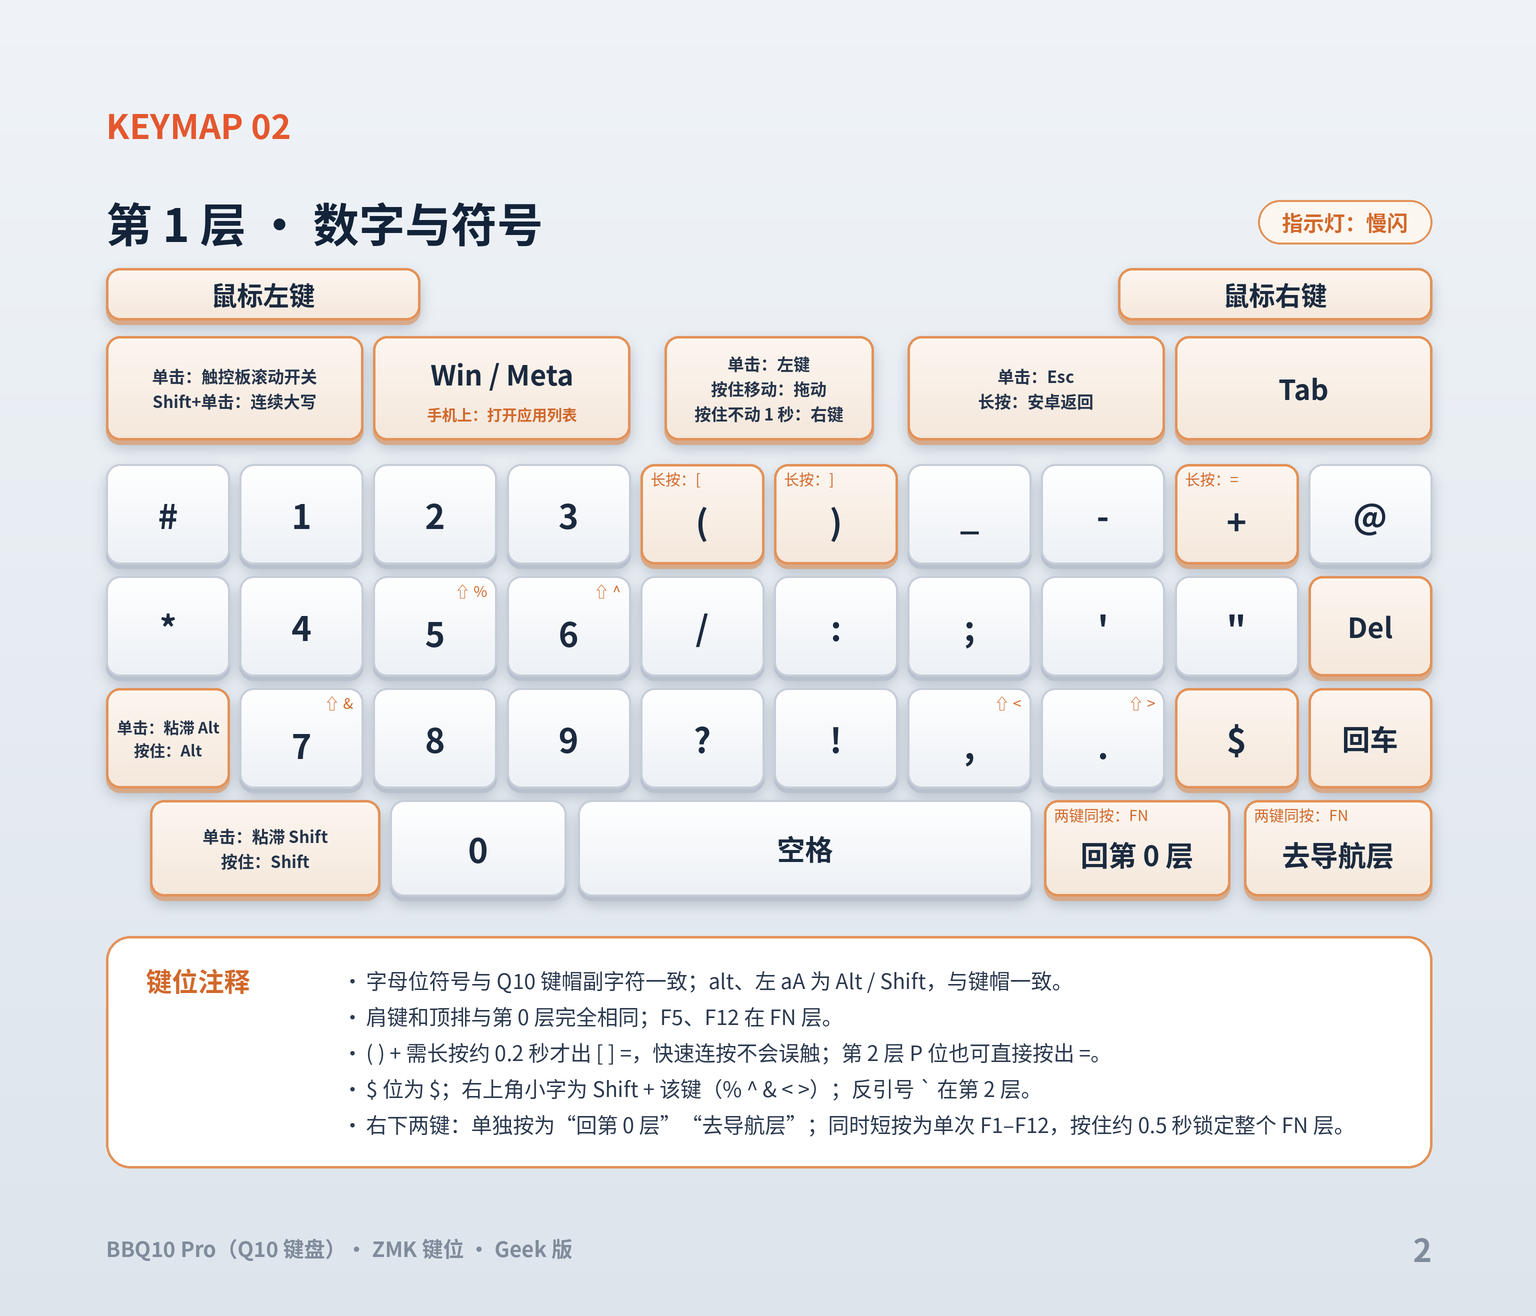
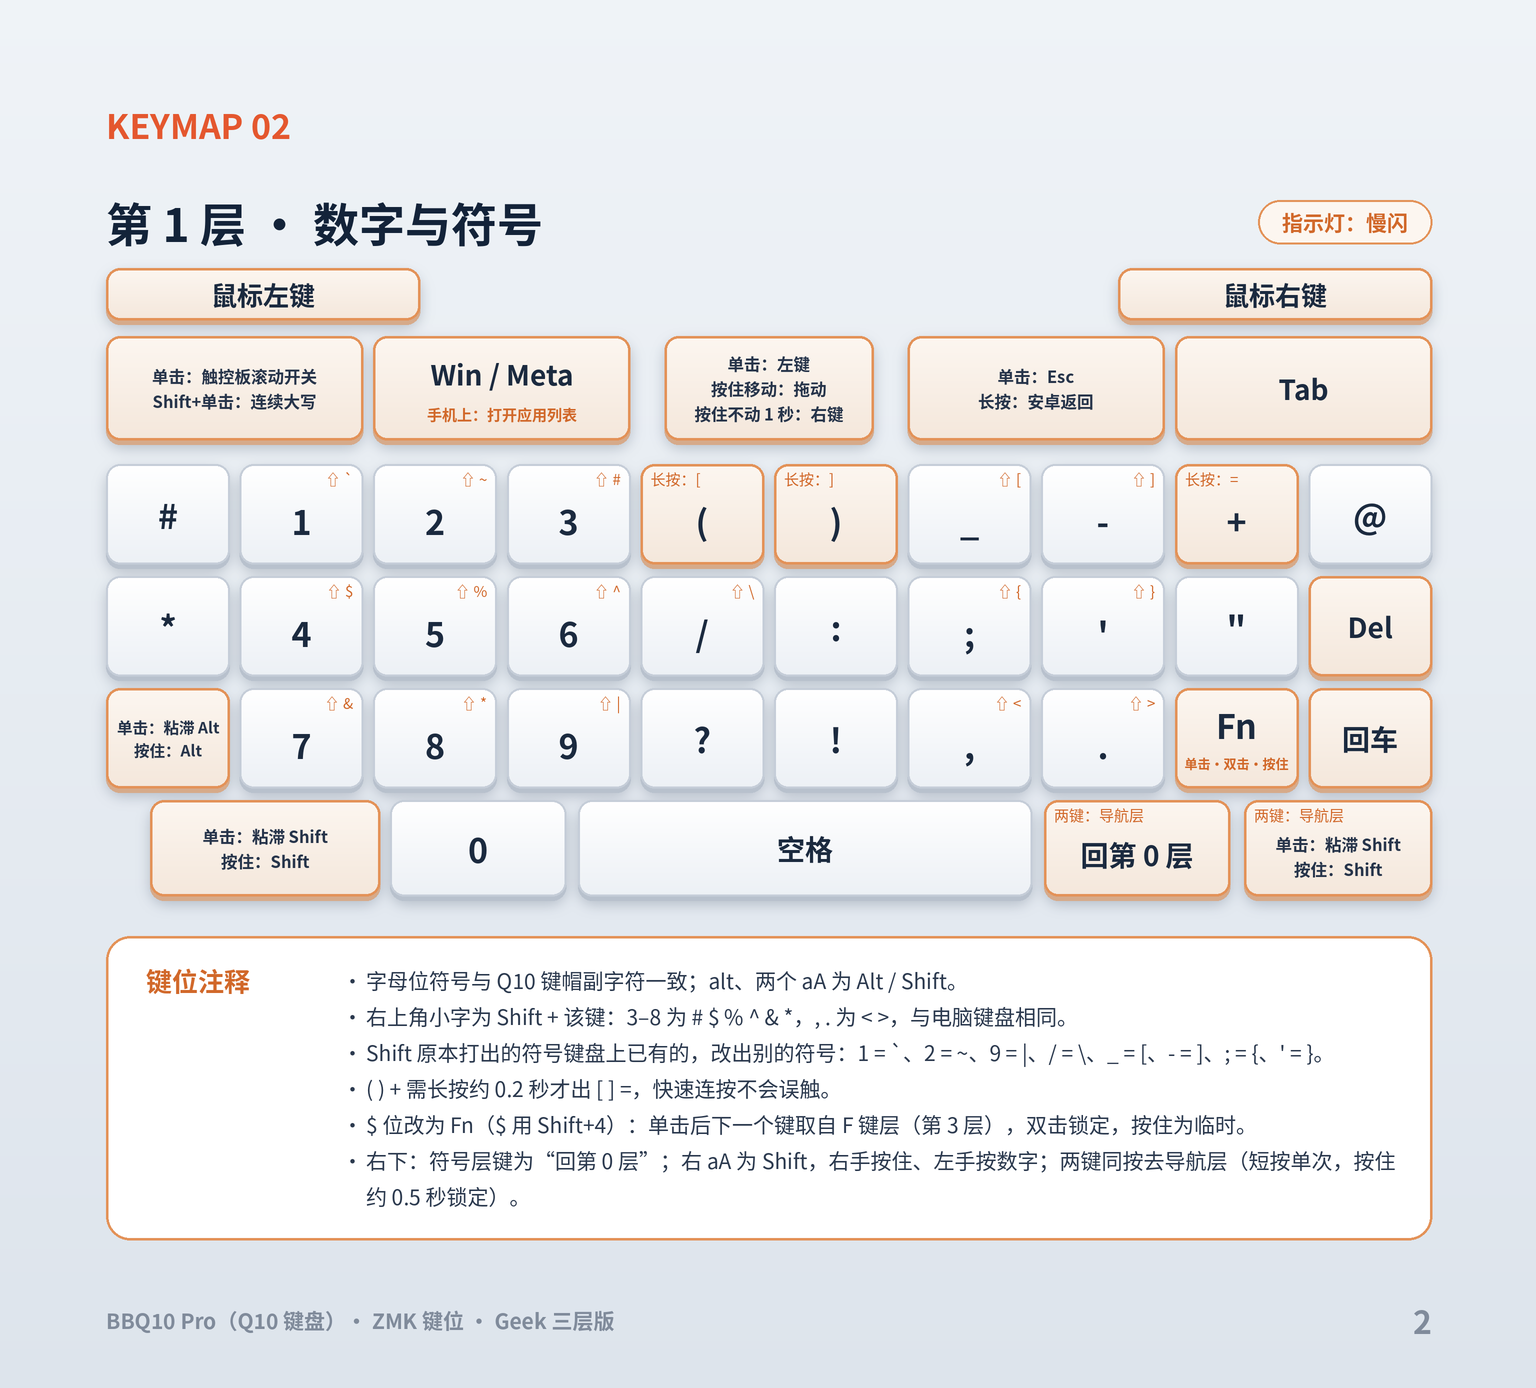
Geek3layers: three layers, Shift symbols on the number layer, Fn on $
Move the navigation layer's symbols to the number and symbol layer as
Shift combinations, merge the FN layer into the navigation layer, and reach
F1-F12 through an Fn key on the symbol layer.

- Symbol layer: Shift + 3-8 gives # $ % ^ & * and Shift + , . gives < >, as
  on a PC keyboard. Keys whose shifted symbol is already on the keyboard
  type another symbol instead: 1 = `, 2 = ~, 9 = |, / = \, _ = [, - = ],
  ; = { and ' = }
- The $ key on the symbol layer is Fn ($ is Shift+4): tap for one F key,
  double-tap to lock, hold for momentary. The F-key layer (now layer 3) has
  F1-F9 on 1-9, F10 on 0 and F11/F12 on # and *, plus Task Manager, Menu
  and Caps Lock
- The right aA is a sticky Shift again on every layer, so Shift + digit
  works with two thumbs. The navigation layer is entered with the symbol
  key + right aA: a short press applies it to the next key, holding for
  0.5 s locks it, and pressing both keys on the navigation or F-key layer
  returns to layer 0
- Navigation layer: Bluetooth 0-3, external power, RGB and backlight keys
  take the place of the symbols. Clearing the pairing, the USB/BLE toggle,
  reset and bootloader need a double tap
- The layer indicator double-flashes on the F-key layer
- Update the layer diagrams and the README

Changed region(s): [[0.0625, 0.0623, 0.9375, 0.9035], [0.0625, 0.9347, 0.4062, 0.9658], [0.9062, 0.9347, 0.9375, 0.9658]]

diff --git a/config/boards/arm/zitaotech_q10/custom_driver/keyboard_backlight.c b/config/boards/arm/zitaotech_q10/custom_driver/keyboard_backlight.c
@@ -79,8 +79,8 @@ static void blink_work_handler(struct k_work *work) {
     k_work_reschedule(&blink_work, K_MSEC(BLINK_INTERVAL_MS));
 }
 
-/* 层3（FN）和层4（单次 F1–F12）都双闪 */
-static bool is_fn_layer(int layer) { return layer == 3 || layer == 4; }
+/* 层3（F 键，Fn）双闪 */
+static bool is_fn_layer(int layer) { return layer == 3; }
 
 static void flash_work_handler(struct k_work *work) {
     if (!is_fn_layer(prev_layer)) {
@@ -169,8 +169,7 @@ static void polling_work_handler(struct k_work *work) {
             break;
 
         case 3:
-        case 4:
-            /* 层3、层4：双闪 */
+            /* 层3（F 键）：双闪 */
             flash_step = 0;
             set_led_brightness(BRT_BLINK_HIGH);
             k_work_reschedule(&flash_work, K_MSEC(double_flash_steps_ms[0]));

diff --git a/README.md b/README.md
@@ -11,8 +11,8 @@ Layer diagrams for the keymap in `config/zitaotech_q10.keymap`.
 <p align="center">
 <img width="800" alt="第 0 层 · QWERTY" src="docs/keymap/keymap-0-qwerty.png" />
 <img width="800" alt="第 1 层 · 数字与符号" src="docs/keymap/keymap-1-symbols.png" />
-<img width="800" alt="第 2 层 · 导航与括号" src="docs/keymap/keymap-2-navigation.png" />
-<img width="800" alt="第 3 层 · FN 与系统" src="docs/keymap/keymap-3-fn.png" />
+<img width="800" alt="第 2 层 · 导航与系统" src="docs/keymap/keymap-2-navigation.png" />
+<img width="800" alt="第 3 层 · F 键（Fn）" src="docs/keymap/keymap-3-fn.png" />
 </p>
 
 ### Use this repo to generate your own ZMK keymap for the bbq10 Pro keyboard.  
